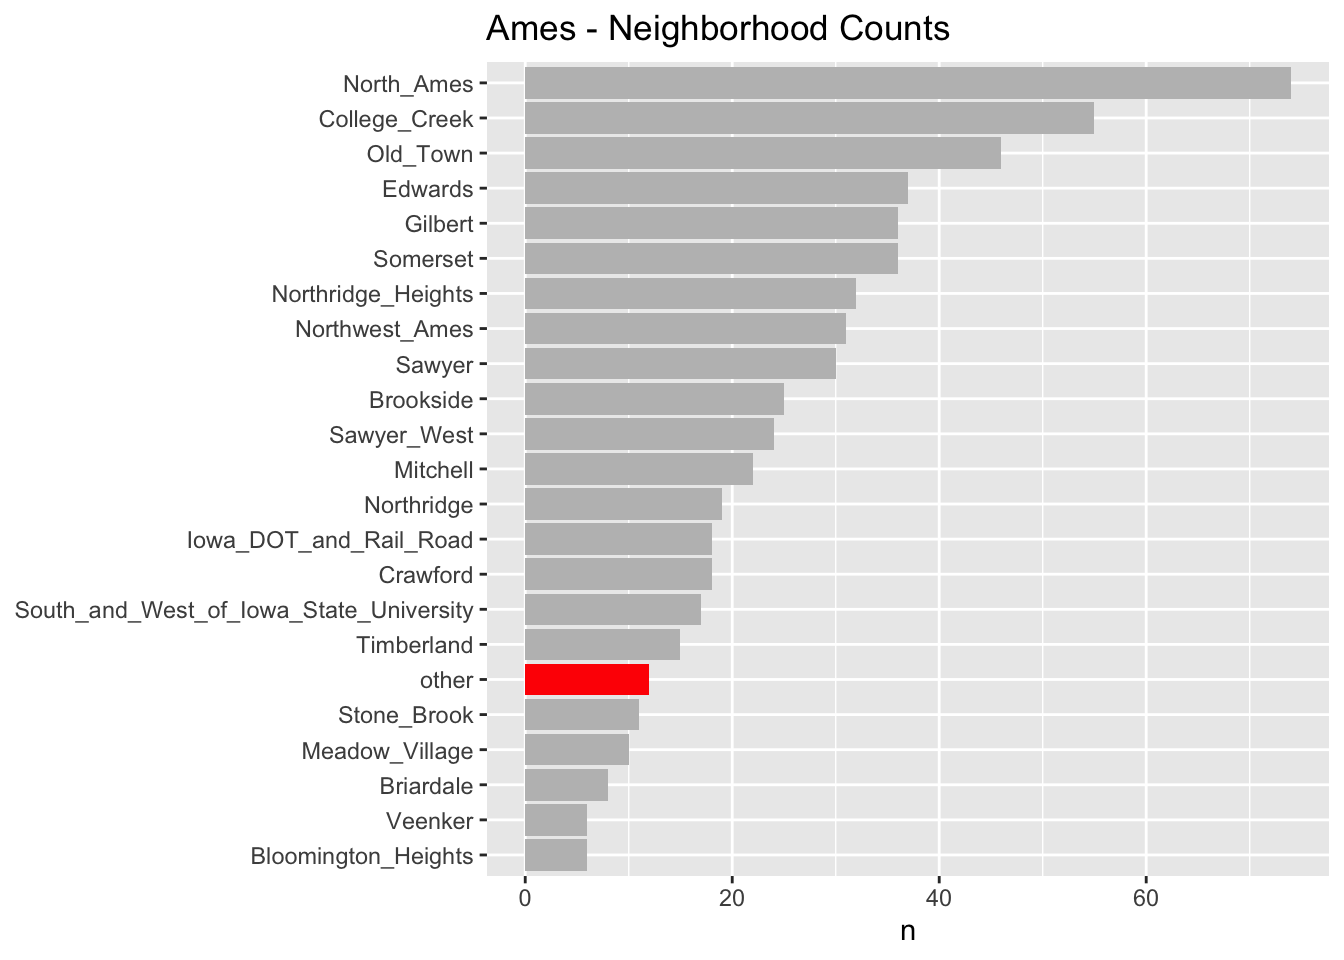
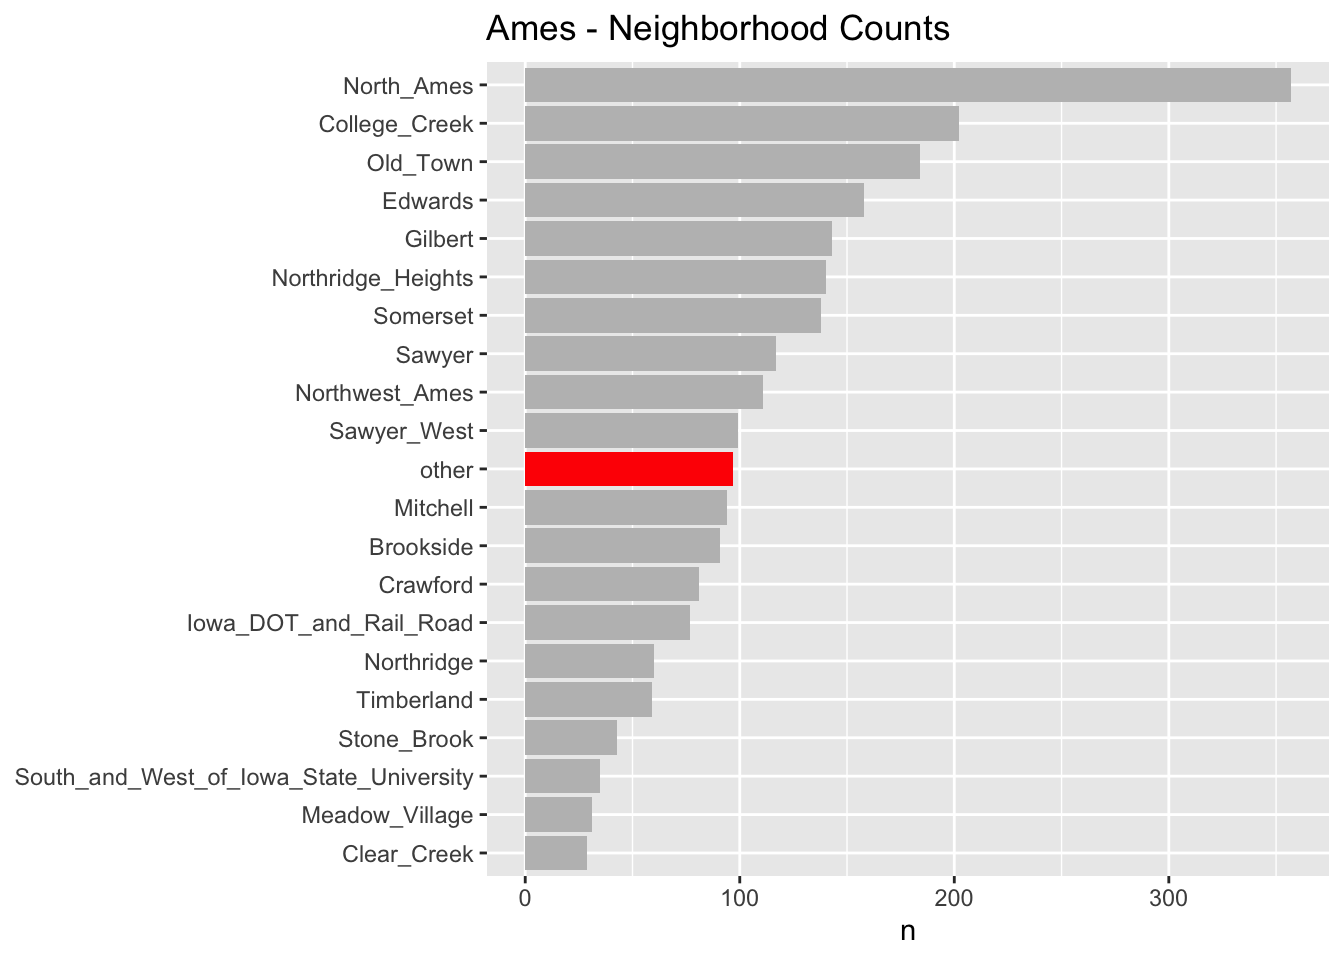
updated initial split to 80% training and retrained model

Changed region(s): [[0.0, 0.0625, 0.9688, 0.9688], [0.75, 0.2812, 0.8125, 0.3438], [0.9062, 0.2812, 0.9375, 0.3438]]

diff --git a/content/posts/2020-05-19-xgboost-with-tidymodels.html b/content/posts/2020-05-19-xgboost-with-tidymodels.html
@@ -68,7 +68,7 @@ ames_data &lt;- make_ames() %&gt;%
 <pre class="r"><code># split into training and testing datasets. Stratify by Sale price 
 ames_split &lt;- rsample::initial_split(
   ames_data, 
-  prop = 0.2, 
+  prop = 0.8, 
   strata = sale_price
 )</code></pre>
 </div>
@@ -144,40 +144,40 @@ knitr::kable(head(xgboost_grid))</code></pre>
 </thead>
 <tbody>
 <tr class="odd">
-<td align="right">11</td>
-<td align="right">6</td>
-<td align="right">0.0091690</td>
-<td align="right">0.0000001</td>
-</tr>
-<tr class="even">
-<td align="right">12</td>
-<td align="right">7</td>
-<td align="right">0.0346875</td>
-<td align="right">0.0451186</td>
-</tr>
-<tr class="odd">
-<td align="right">7</td>
-<td align="right">6</td>
-<td align="right">0.0000018</td>
-<td align="right">0.3011571</td>
-</tr>
-<tr class="even">
-<td align="right">37</td>
-<td align="right">10</td>
-<td align="right">0.0000001</td>
-<td align="right">0.0000000</td>
-</tr>
-<tr class="odd">
-<td align="right">29</td>
+<td align="right">34</td>
 <td align="right">1</td>
-<td align="right">0.0022864</td>
-<td align="right">0.2903964</td>
+<td align="right">0.0118682</td>
+<td align="right">29.9649253</td>
 </tr>
 <tr class="even">
 <td align="right">38</td>
+<td align="right">12</td>
+<td align="right">0.0001291</td>
+<td align="right">0.6156496</td>
+</tr>
+<tr class="odd">
 <td align="right">6</td>
-<td align="right">0.0003792</td>
+<td align="right">7</td>
+<td align="right">0.0000949</td>
 <td align="right">0.0000000</td>
+</tr>
+<tr class="even">
+<td align="right">32</td>
+<td align="right">4</td>
+<td align="right">0.0000005</td>
+<td align="right">0.0000367</td>
+</tr>
+<tr class="odd">
+<td align="right">14</td>
+<td align="right">2</td>
+<td align="right">0.0001833</td>
+<td align="right">0.0000000</td>
+</tr>
+<tr class="even">
+<td align="right">31</td>
+<td align="right">8</td>
+<td align="right">0.0000000</td>
+<td align="right">1.4345098</td>
 </tr>
 </tbody>
 </table>
@@ -353,7 +353,7 @@ knitr::kable(xgboost_score_train)</code></pre>
 <tr class="odd">
 <td align="left">rmse</td>
 <td align="left">standard</td>
-<td align="left">2,980.56</td>
+<td align="left">3,807.24</td>
 </tr>
 <tr class="even">
 <td align="left">rsq</td>
@@ -363,7 +363,7 @@ knitr::kable(xgboost_score_train)</code></pre>
 <tr class="odd">
 <td align="left">mae</td>
 <td align="left">standard</td>
-<td align="left">1,802.76</td>
+<td align="left">2,747.17</td>
 </tr>
 </tbody>
 </table>
@@ -401,17 +401,17 @@ knitr::kable(xgboost_score)</code></pre>
 <tr class="odd">
 <td align="left">rmse</td>
 <td align="left">standard</td>
-<td align="left">31,606.93</td>
+<td align="left">30,217.58</td>
 </tr>
 <tr class="even">
 <td align="left">rsq</td>
 <td align="left">standard</td>
-<td align="left">0.85</td>
+<td align="left">0.87</td>
 </tr>
 <tr class="odd">
 <td align="left">mae</td>
 <td align="left">standard</td>
-<td align="left">18,654.97</td>
+<td align="left">15,728.22</td>
 </tr>
 </tbody>
 </table>
